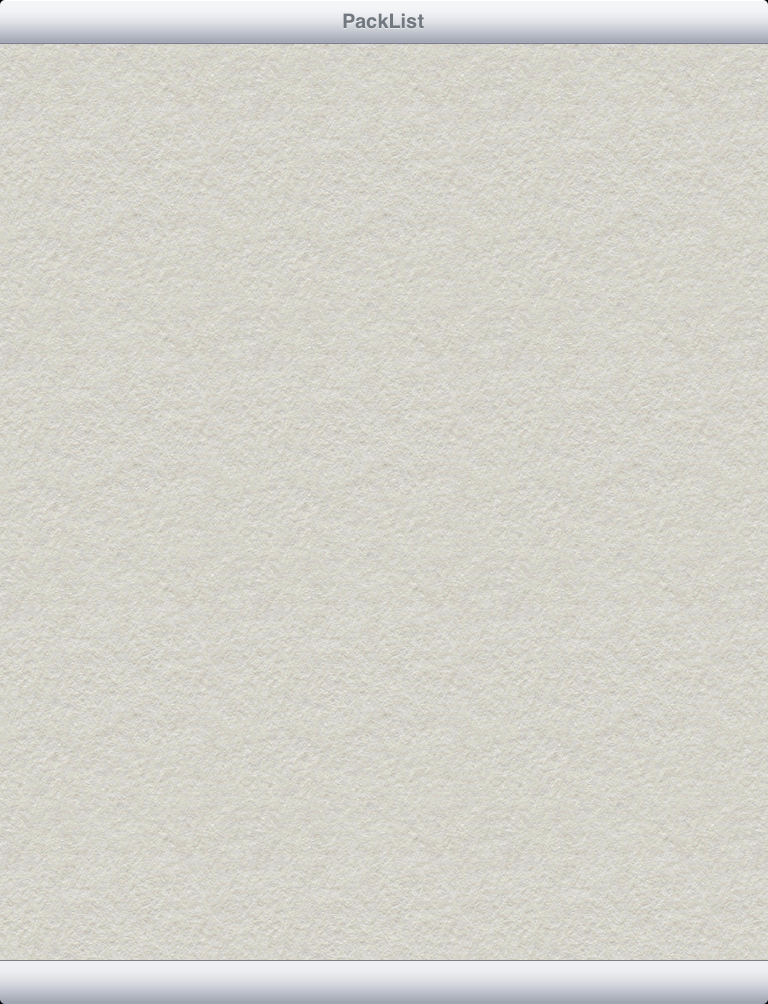
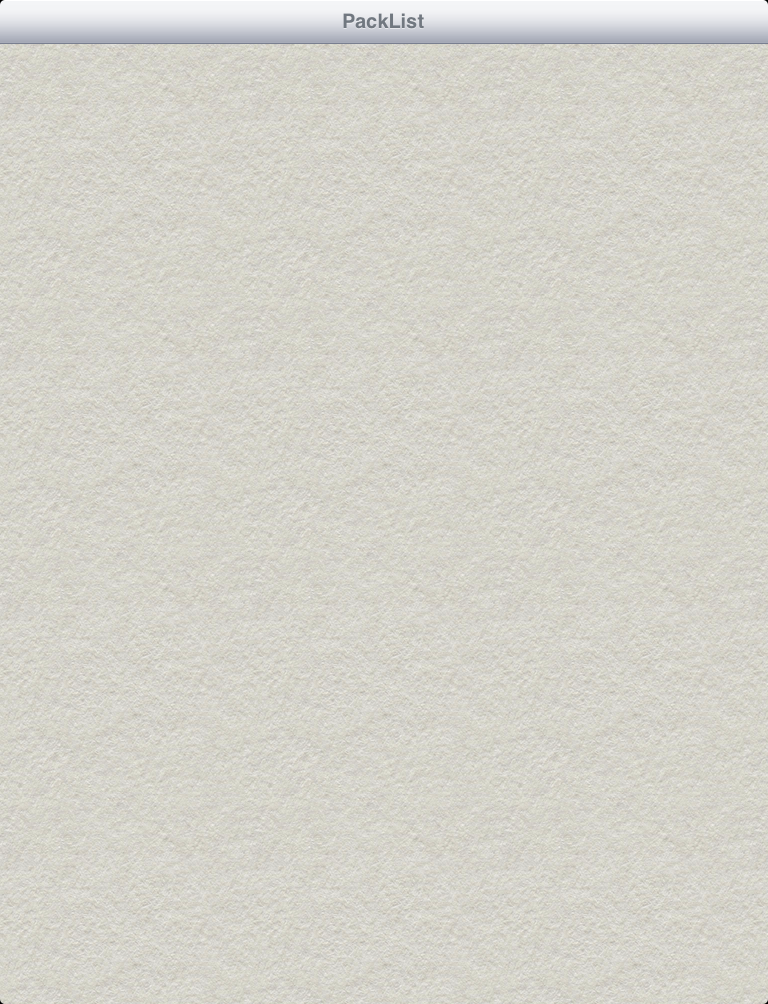
iOS6 - iPhone5-4inch 対応

Changed region(s): [[0.0, 0.9572, 1.0, 1.0]]

diff --git a/Source/Classes/MocFunctions.m b/Source/Classes/MocFunctions.m
@@ -17,10 +17,14 @@
 static MocFunctions	*staticMocFunctions= nil;
 + (MocFunctions *)sharedMocFunctions 
 {
-	if (staticMocFunctions==nil) {
-		staticMocFunctions = [[MocFunctions alloc] init];
+	@synchronized(self)
+	{	//シングルトン：selfに対する処理が、この間は別のスレッドから行えないようになる。
+		if (staticMocFunctions==nil) {
+			staticMocFunctions = [[MocFunctions alloc] init];
+		}
+		return staticMocFunctions;
 	}
-	return staticMocFunctions;
+	return nil;
 }
 
 
@@ -57,13 +61,10 @@ static MocFunctions	*staticMocFunctions= nil;
 
 - (void)deleteEntity:(NSManagedObject *)entity
 {
-	@synchronized(mContext)
-	{
-		if (entity) {
-			[mContext deleteObject:entity];	// 即commitされる。つまり、rollbackやcommitの対象外である。 ＜＜そんなことは無い！ roolback可能 save必要
-		}
+	if (entity) {
+		[mContext deleteObject:entity];	// 即commitされる。つまり、rollbackやcommitの対象外である。 ＜＜そんなことは無い！ roolback可能 save必要
 	}
-}	
+}
 
 - (BOOL)hasChanges		// YES=commit以後に変更あり
 {
@@ -73,19 +74,16 @@ static MocFunctions	*staticMocFunctions= nil;
 - (BOOL)commit
 {
 	assert(mContext);
-	@synchronized(mContext)
-	{
-		// SAVE
-		NSError *err = nil;
-		if (![mContext  save:&err]) {
-			//NSLog(@"*** MOC commit error ***\n%@\n%@\n***\n", err, [err userInfo]);
-			GA_TRACK_EVENT_ERROR([err description],0);
-			//exit(-1);  // Fail
-			azAlertBox(NSLocalizedString(@"MOC CommitErr",nil),
-					 NSLocalizedString(@"MOC CommitErrMsg",nil),
-					 NSLocalizedString(@"Roger",nil));
-			return NO;
-		}
+	// SAVE
+	NSError *err = nil;
+	if (![mContext  save:&err]) {
+		//NSLog(@"*** MOC commit error ***\n%@\n%@\n***\n", err, [err userInfo]);
+		GA_TRACK_EVENT_ERROR([err description],0);
+		//exit(-1);  // Fail
+		azAlertBox(NSLocalizedString(@"MOC CommitErr",nil),
+				   NSLocalizedString(@"MOC CommitErrMsg",nil),
+				   NSLocalizedString(@"Roger",nil));
+		return NO;
 	}
 	return YES;
 }
@@ -94,22 +92,17 @@ static MocFunctions	*staticMocFunctions= nil;
 - (void)rollBack
 {
 	assert(mContext);
-	@synchronized(mContext)
-	{
-		// ROLLBACK
-		[mContext rollback]; // 前回のSAVE以降を取り消す
-	}
+	// ROLLBACK
+	[mContext rollback]; // 前回のSAVE以降を取り消す
 }
 
 - (void)stopRelease
 {	// MOC（メモリ上）をクリアし、mContextを解放する。
 	GA_TRACK_METHOD
 	assert(mContext);
-	@synchronized(mContext)
-	{
-		[mContext reset];
-		mContext = nil; //解放
-	}
+	[[NSNotificationCenter defaultCenter] removeObserver:self];
+	[mContext reset];
+	mContext = nil; //解放
 }
 
 
@@ -379,6 +372,20 @@ static MocFunctions	*staticMocFunctions= nil;
 
 
 #pragma mark - iCloud
+// iCloud完全クリアする　＜＜＜同期矛盾が生じたときや構造変更時に使用
+- (void)iCloudAllClear
+{
+	// iCloudサーバー上のゴミデータ削除
+	NSURL *icloudURL = [[NSFileManager defaultManager] URLForUbiquityContainerIdentifier:nil];
+	NSError *err;
+	[[NSFileManager defaultManager] removeItemAtURL:icloudURL error:&err];
+	if (err) {
+		GA_TRACK_ERROR([err description])
+	} else {
+		NSLog(@"iCloud: Removed %@", icloudURL);
+	}
+}
+
 - (void)mergeiCloudChanges:(NSNotification*)note forContext:(NSManagedObjectContext*)moc
 {
 	// マージ処理

diff --git a/Source/Classes/AppDelegate.m b/Source/Classes/AppDelegate.m
@@ -29,7 +29,7 @@
 
 @implementation AppDelegate
 @synthesize window = __window;
-@synthesize managedObjectContext = __moc;
+//@synthesize managedObjectContext = __moc;
 @synthesize mainNC = __mainNC;
 @synthesize mainSVC = __mainSVC;
 @synthesize padRootVC = __padRootVC;
@@ -309,20 +309,21 @@
 	NSLog(@"applicationWillTerminate ***");
     
 	[[NSNotificationCenter defaultCenter] removeObserver:self];
-	
+
 	//--------------------------------------------------[Clip Board] クリップボード クリア処理
+	NSManagedObjectContext *moc = [[MocFunctions sharedMocFunctions] getMoc];
 	if (__clipE3objects && 0 < [__clipE3objects count]) {
 		for (E3 *e3 in __clipE3objects) {
 			if (e3.parent == nil) {
 				// [Cut]されたE3なので削除する
-				[__moc deleteObject:e3];
+				[moc deleteObject:e3];
 			}
 		}
 	}
-	if (__moc && [__moc hasChanges]) { //未保存があれば保存する
+	if (moc && [moc hasChanges]) { //未保存があれば保存する
 		NSError *error;
-        if (![__moc save:&error]) {
-			GA_TRACK_EVENT_ERROR([error localizedDescription],0);
+        if (![moc save:&error]) {
+			GA_TRACK_ERROR([error description]);
 			NSLog(@"Unresolved error %@, %@", error, [error userInfo]);
 			assert(NO); //DEBUGでは落とす
         } 
@@ -404,7 +405,9 @@
 			[__mainSVC.view addSubview:mAdMobView];
 		} else {
 			mAdMobView.adUnitID = AdMobID_PackList;	//iPhone//
-			mAdMobView.frame = CGRectMake( 0, 500, GAD_SIZE_320x50.width, GAD_SIZE_320x50.height);
+			//mAdMobView.frame = CGRectMake( 0, 500, GAD_SIZE_320x50.width, GAD_SIZE_320x50.height);
+			mAdMobView.frame = CGRectMake( 0, self.window.frame.size.height-GAD_SIZE_320x50.height,
+										  GAD_SIZE_320x50.width, GAD_SIZE_320x50.height);
 			mAdMobView.rootViewController = __mainNC;
 			[__mainNC.view addSubview:mAdMobView];
 		}
@@ -625,7 +628,8 @@
 		if (UIInterfaceOrientationIsLandscape(toInterfaceOrientation)) {
 			miAdView.frame = CGRectMake(0, 320-32,  0,0);	//ヨコ：下部に表示
 		} else {
-			miAdView.frame = CGRectMake(0, 480-50,  0,0);	//タテ：下部に表示
+			//miAdView.frame = CGRectMake(0, 480-50,  0,0);	//タテ：下部に表示
+			miAdView.frame = CGRectMake(0, self.window.frame.size.height-50,  0,0);	//タテ：下部に表示
 		}
 	/*.alpha=0 だけにし、隠さない
 		if (mAdCanVisible && miAdView.alpha==1) {	// 表示

diff --git a/Source/Classes/E1viewController.m b/Source/Classes/E1viewController.m
@@ -506,6 +506,8 @@
 - (void)actionCloudReset
 {
 	GA_TRACK_METHOD
+	
+#ifdef xxxxxxxxxxxxxxxx
 	[[MocFunctions sharedMocFunctions] stopRelease];
 	
 	NSFileManager *fileManager = [NSFileManager defaultManager];
@@ -518,6 +520,10 @@
 	}
 	// MOC 初期生成
 	[[MocFunctions sharedMocFunctions] start];
+#else
+	// iCloud Stack Clear
+	[[MocFunctions sharedMocFunctions] iCloudAllClear];
+#endif
 	[self refetcheAllData];
 }
 
@@ -779,8 +785,8 @@
 		//informationView_ = nil; // azInformationViewで生成 [self.view.window addSubview:]
 		
 		// 背景テクスチャ・タイルペイント
-		if (appDelegate_.ppIsPad) {
-			//self.view.backgroundColor = //iPadでは無効
+		if (appDelegate_.ppIsPad  OR  IOS_VERSION_GREATER_THAN_OR_EQUAL_TO(@"6.0") ) {
+			//self.view.backgroundColor = //iPadや iOS6.0以降 では無効になったため
 			UIView* view = self.tableView.backgroundView;
 			if (view) {
 				PatternImageView *tv = [[PatternImageView alloc] initWithFrame:view.frame
@@ -872,7 +878,8 @@
 	self.title = NSLocalizedString(@"Product Title",nil);
 	
 	if (moc_==nil) {
-		moc_ = [appDelegate_ managedObjectContext];
+		//moc_ = [appDelegate_ managedObjectContext];
+		moc_ = [[MocFunctions sharedMocFunctions] getMoc];
 	}
 	
 	// CoreData 読み込み
@@ -1047,9 +1054,9 @@
 #ifdef AzMAKE_SPLASHFACE
     return 0;
 #else
-	if (appDelegate_.ppPaid_SwitchAd) {
-		return 4;	// (3)iCloud Initial
-	}
+	//if (appDelegate_.ppPaid_SwitchAd) {
+	//	return 4;	// (3)iCloud Initial
+	//}
 	return 3; // (0)PackList　　(1)Import menu　　(2)Basic menu
 #endif
 }
@@ -1097,9 +1104,9 @@
 // TableView セクションフッタを応答
 - (NSString *)tableView:(UITableView *)tableView titleForFooterInSection:(NSInteger)section 
 {
-	if (appDelegate_.ppPaid_SwitchAd) {
-		section--;
-	}
+	//if (appDelegate_.ppPaid_SwitchAd) {
+	//	section--;
+	//}
 	if (section==2) {
 		NSString *zz = @"";  //NSLocalizedString(@"iCloud OFF",nil);＜＜Stableリリースするまで保留。
 		zz = [zz stringByAppendingString:@"\nAzukiSoft Project\n"  COPYRIGHT];

diff --git a/Source/Classes/E3detailTVC.m b/Source/Classes/E3detailTVC.m
@@ -108,8 +108,7 @@
 		mTableViewContentY = -1;
 
 		// 背景テクスチャ・タイルペイント
-		if (mAppDelegate.ppIsPad) {
-			//self.view.backgroundColor = //iPad1では無効
+		if (mAppDelegate.ppIsPad  OR  IOS_VERSION_GREATER_THAN_OR_EQUAL_TO(@"6.0") ) {
 			UIView* view = self.tableView.backgroundView;
 			if (view) {
 				PatternImageView *tv = [[PatternImageView alloc] initWithFrame:view.frame
@@ -339,6 +338,9 @@
 	if (mCalcView && [mCalcView isShow]) {
 		[mCalcView hide]; //　ここでは隠すだけ。 removeFromSuperviewするとアニメ無く即消えてしまう。
 	}
+	
+	[mAppDelegate AdRefresh];	//広告生成のみ
+	[mAppDelegate AdViewWillRotate:orientation];
 }
 
 // ユーザインタフェースの回転の最後の半分が始まる前にこの処理が呼ばれる　＜＜このタイミングで配置転換すると見栄え良い＞＞
@@ -862,8 +864,15 @@
 		}
 		else {
 			// 縦
-			fTableTopY = 65 + (iRow-3)*60;
-			rect.origin.y = 65;
+			//fTableTopY = 65 + (iRow-3)*60;
+			//rect.origin.y = 65;
+			if (mAppDelegate.ppOptShowAd) {	//広告表示中
+				fTableTopY = (500 - self.tableView.bounds.size.height) + 50 + (iRow-3)*60;
+				rect.origin.y = self.tableView.bounds.size.height - 401;
+			} else {
+				fTableTopY = (500 - self.tableView.bounds.size.height) + (iRow-3)*60;
+				rect.origin.y = self.tableView.bounds.size.height - 401 + 50;
+			}
 		}
 	}
 	// テーブルを少し上げてテンキーで隠れないようにする

diff --git a/Source/Classes/AppDelegate.h b/Source/Classes/AppDelegate.h
@@ -32,7 +32,7 @@
 @property (nonatomic, retain) UINavigationController		*mainNC;		//for iPhone
 @property (nonatomic, retain) UISplitViewController		*mainSVC;	//for iPad
 @property (nonatomic, retain) PadRootVC	*padRootVC;  //解放されないようにretain
-@property (nonatomic, retain, readonly) NSManagedObjectContext *managedObjectContext;
+//@property (nonatomic, retain, readonly) NSManagedObjectContext *managedObjectContext;
 
 @property (nonatomic, retain) NSMutableArray	*clipE3objects;  // 外部から参照されるため
 @property (nonatomic, retain) E1							*dropboxSaveE1selected;

diff --git a/Source/Classes/E2viewController.m b/Source/Classes/E2viewController.m
@@ -787,7 +787,7 @@
 		//NG//sharePlanList_ = NO;  ＜＜＜常にNOになってしまう。
 		
 		// 背景テクスチャ・タイルペイント
-		if (appDelegate_.ppIsPad) {
+		if (appDelegate_.ppIsPad  OR  IOS_VERSION_GREATER_THAN_OR_EQUAL_TO(@"6.0") ) {
 			//self.view.backgroundColor = //iPad1では無効
 			UIView* view = self.tableView.backgroundView;
 			if (view) {

diff --git a/Source/Classes/CalcView.m b/Source/Classes/CalcView.m
@@ -109,7 +109,7 @@
 		// 位置はそのままで、透明から現れるようにする
 	} else {
 		// 下部から現れるようにする
-		rect.origin.y += 500;	// 最初、下部に隠れている状態
+		rect.origin.y += 700;	// 最初、下部に隠れている状態
 	}
 
 	// UIView

diff --git a/Source/Classes/MocFunctions.h b/Source/Classes/MocFunctions.h
@@ -14,7 +14,7 @@
 #import "Elements.h"
 
 
-#define CoreData_iCloud_SYNC		YES	// YES or NO
+#define CoreData_iCloud_SYNC		NO			// YES or NO
 
 
 @interface MocFunctions : NSObject 
@@ -52,6 +52,8 @@
 
 // PackList Original
 - (NSInteger)E1_maxRow;
+
+- (void)iCloudAllClear;
 
 
 @end
